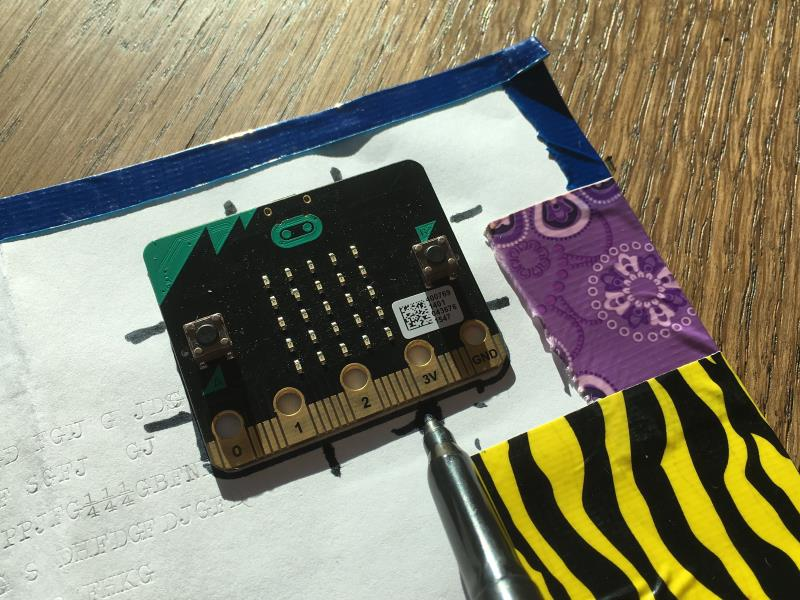
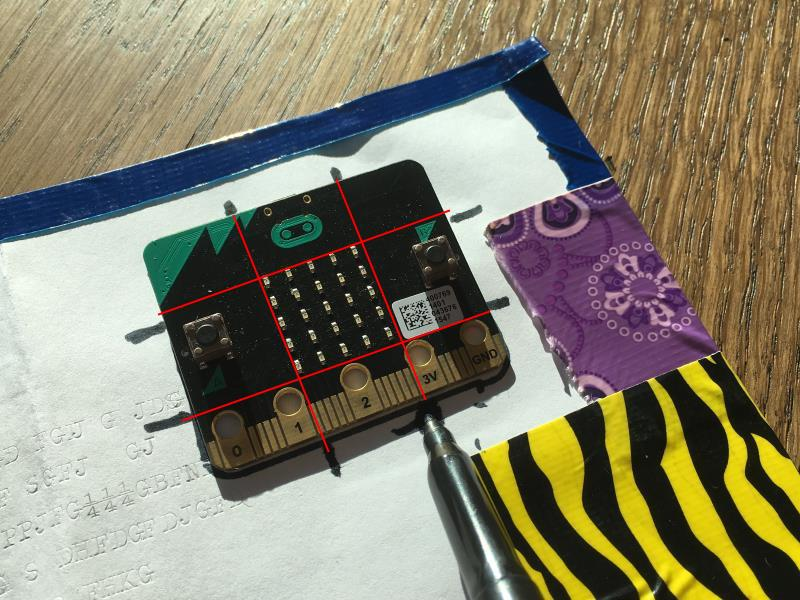
updating maker instructions

diff --git a/docs/projects/wallet/making.md b/docs/projects/wallet/making.md
@@ -71,3 +71,95 @@ Use your scissors and cut along the line you've just traced while keeping the sh
 Well done! The hole is done and perfectly centered!
 
 ![](/static/mb/projects/wallet/hole6.jpg)
+
+## Mounting the @boardname@
+
+We are going to cut a hole for the @boardname@ screen and buttons on the front of the wallet.
+
+Place the @boardname@ on the back of the sheet.
+
+![](/static/mb/projects/wallet/mbhole1.jpg)
+
+Mark the contour of the @boardname@ on the sheet with your marker. Don't worry about little mistakes.
+
+![](/static/mb/projects/wallet/mbhole2.jpg)
+
+Mark ticks at the location of each corners of the screen as shown on the picture.
+
+![](/static/mb/projects/wallet/mbhole3.jpg)
+
+Use the @boardname@ as a ruler to trace a line between the ticks.
+
+![](/static/mb/projects/wallet/mbhole5.jpg)
+
+Fill the inside square with your marker, you will need to cut it out later.
+
+![](/static/mb/projects/wallet/mbhole6.jpg)
+
+Mark the ticks along the button using the same procedure.
+
+![](/static/mb/projects/wallet/mbhole7.jpg)
+
+Fill the button square as well so that you clearly know what to cut or not.
+
+![](/static/mb/projects/wallet/mbhole8.jpg)
+
+Fold the sheet over the center of the darken area and cut out a triangle large enough to squeeze a blade of the scissors.
+
+![](/static/mb/projects/wallet/mbhole9.jpg)
+
+Starting from the small hole, work your way through cutting out the darkened area.
+
+![](/static/mb/projects/wallet/mbhole10.jpg)
+
+Eventually, the opening should look like a rectangle with a square in the middle.
+
+![](/static/mb/projects/wallet/mbhole11.jpg)
+
+Try mounting the @boardname@ and cutting more material as needed.
+
+![](/static/mb/projects/wallet/mbhole12.jpg)
+
+Put a generous layer of tape on the back of the @boardname@ to stick it on the wallet.
+
+![](/static/mb/projects/wallet/mbhole13.jpg)
+
+Attach the battery to the @boardname@. You are done for this step!
+
+![](/static/mb/projects/wallet/mbhole14.jpg)
+
+## Folding
+
+The last step is to fold the sheet and tape the sides to get a wallet.
+
+Start form the sheet facing paper up and fold the sheet over the large hole in the center.
+
+![](/static/mb/projects/wallet/fold1.jpg)
+
+Fold another time until the large hole is visible.
+
+![](/static/mb/projects/wallet/fold2.jpg)
+
+Apply a layer of tape on the side with the tape overlapping half over the wallet.
+
+![](/static/mb/projects/wallet/fold3.jpg)
+
+Flip over the wallet carefully.
+
+![](/static/mb/projects/wallet/fold4.jpg)
+
+Fold the remaining tape over the wallet and cut the sides with the scissors.
+
+![](/static/mb/projects/wallet/fold5.jpg)
+
+Tuck in the battery in the pocket inside the wallet and make sure the cables are out of the way.
+
+![](/static/mb/projects/wallet/fold6.jpg)
+
+Apply the tape on the side using the same procedure.
+
+![](/static/mb/projects/wallet/fold7.jpg)
+
+That's it! You have an @boardname@ wallet!
+
+![](/static/mb/projects/wallet/wallet.jpg)
